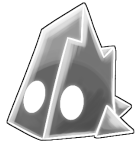
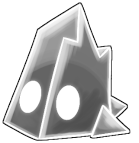
Halo update

Changed region(s): [[0.0, 0.0, 0.9784, 1.0], [0.3453, 0.2238, 0.4029, 0.2517]]

diff --git a/EnchantedMask/Helpers/UI/InventoryPage/GlyphsPage.cs b/EnchantedMask/Helpers/UI/InventoryPage/GlyphsPage.cs
@@ -1,16 +1,18 @@
-using HutongGames.PlayMaker;
+using EnchantedMask.Glyphs;
+using EnchantedMask.Settings;
+using HutongGames.PlayMaker;
+using HutongGames.PlayMaker.Actions;
 using ItemChanger.Extensions;
 using ItemChanger.FsmStateActions;
-using EnchantedMask.Settings;
 using System;
 using System.Collections.Generic;
+using System.Drawing;
+using System.EnterpriseServices.CompensatingResourceManager;
 using System.Linq;
 using System.Text;
 using TMPro;
 using UnityEngine;
 using UnityEngine.UI;
-using HutongGames.PlayMaker.Actions;
-using EnchantedMask.Glyphs;
 
 namespace EnchantedMask.Helpers.UI.InventoryPage
 {
@@ -232,13 +234,46 @@ namespace EnchantedMask.Helpers.UI.InventoryPage
                 icon.layer = glyphsPage.layer;
 
                 // Decides what the icon looks like
-                SpriteRenderer sr = icon.AddComponent<SpriteRenderer>();
-                sr.sprite = SharedData.glyphs[i].GetIcon();
-                sr.sortingLayerID = 629535577;
-                sr.sortingLayerName = "HUD";
+                SpriteRenderer spriteRenderer = icon.AddComponent<SpriteRenderer>();
+                spriteRenderer.sprite = SharedData.glyphs[i].GetIcon();
+                spriteRenderer.sortingLayerID = 629535577;
+                spriteRenderer.sortingLayerName = "HUD";
 
-                slots[rowIndex].Add(new GlyphSlot(slotObject, icon, sr));
+                // Add the background halo to show if a slot is equipped
+                GameObject equippedHalo = new GameObject($"Glyph Slot {i} - Halo");
+                equippedHalo.transform.SetParent(icon.transform);
+                equippedHalo.layer = icon.layer;
+                equippedHalo.transform.localPosition = new Vector3(0, 0, 5);
+                equippedHalo.transform.localScale = 1.5f * spacing.Scale();
+
+                // Define the halo's appearance
+                SpriteRenderer spriteRenderer2 = equippedHalo.AddComponent<SpriteRenderer>();
+                spriteRenderer2.sprite = GetHaloSprite(SharedData.glyphs[i].Tier);
+                spriteRenderer2.sortingLayerID = 629535577;
+                spriteRenderer2.sortingLayerName = "HUD";
+                equippedHalo.SetActive(false);
+
+                slots[rowIndex].Add(new GlyphSlot(slotObject, icon, spriteRenderer, equippedHalo));
                 columnIndex++;
+            }
+        }
+
+        private Sprite GetHaloSprite(Glyph.Tiers tier)
+        {
+            switch (tier)
+            {
+                case Glyph.Tiers.Common:
+                    return SpriteHelper.GetSprite("WhiteHalo");
+                case Glyph.Tiers.Uncommon:
+                    return SpriteHelper.GetSprite("GreenHalo");
+                    case Glyph.Tiers.Rare:
+                    return SpriteHelper.GetSprite("BlueHalo");
+                case Glyph.Tiers.Epic:
+                    return SpriteHelper.GetSprite("PurpleHalo");
+                case Glyph.Tiers.Legendary:
+                    return SpriteHelper.GetSprite("YellowHalo");
+                default:
+                    return SpriteHelper.GetSprite("WhiteHalo");
             }
         }
 
@@ -275,6 +310,7 @@ namespace EnchantedMask.Helpers.UI.InventoryPage
                     Glyphs.Glyph glyph = SharedData.glyphs[GetGlyphIndex(rowIndex, columnIndex)];
 
                     slot.spriteRenderer.sprite = glyph.Bought() ? glyph.GetIcon() : hiddenSprite;
+                    slot.halo.SetActive(glyph.IsEquipped());
                 }
             }
         }
@@ -653,7 +689,7 @@ namespace EnchantedMask.Helpers.UI.InventoryPage
             selectedColumn = int.Parse(stateParts[2]);
 
             PlayMakerFSM updateCursor = pageFsm.gameObject.LocateMyFSM("Update Cursor");
-            updateCursor.FsmVariables.FindFsmGameObject("Item").Value = slots[selectedRow][selectedColumn].slotOjbect;
+            updateCursor.FsmVariables.FindFsmGameObject("Item").Value = slots[selectedRow][selectedColumn].slotObject;
             updateCursor.SendEvent("UPDATE CURSOR");
 
             SetSelectedGlyph(stateName);
@@ -728,22 +764,22 @@ namespace EnchantedMask.Helpers.UI.InventoryPage
         /// </summary>
         /// <param name="tier"></param>
         /// <returns></returns>
-        private Color GetColor(Glyphs.Glyph.Tiers tier)
+        private UnityEngine.Color GetColor(Glyphs.Glyph.Tiers tier)
         {
             switch (tier)
             {
                 case Glyphs.Glyph.Tiers.Common:
-                    return new Color(255, 255, 255); // White
+                    return new UnityEngine.Color(255, 255, 255); // White
                 case Glyphs.Glyph.Tiers.Uncommon:
-                    return new Color(0, 255, 0); // Green
+                    return new UnityEngine.Color(0, 255, 0); // Green
                 case Glyphs.Glyph.Tiers.Rare:
-                    return new Color(0, 50, 255); // Blue
+                    return new UnityEngine.Color(0, 50, 255); // Blue
                 case Glyphs.Glyph.Tiers.Epic:
-                    return new Color(255, 0, 255); // Purple
+                    return new UnityEngine.Color(255, 0, 255); // Purple
                 case Glyphs.Glyph.Tiers.Legendary:
-                    return new Color(255, 255, 0); // Yellow
+                    return new UnityEngine.Color(255, 255, 0); // Yellow
                 default:
-                    return new Color(255, 255, 255); // White
+                    return new UnityEngine.Color(255, 255, 255); // White
             }
         }
         #endregion

diff --git a/EnchantedMask/Helpers/UI/InventoryPage/GlyphSlot.cs b/EnchantedMask/Helpers/UI/InventoryPage/GlyphSlot.cs
@@ -7,15 +7,17 @@ namespace EnchantedMask.Helpers.UI.InventoryPage
     /// </summary>
     public class GlyphSlot
     {
-        public readonly GameObject slotOjbect;
+        public readonly GameObject slotObject;
         public readonly GameObject icon;
         public readonly SpriteRenderer spriteRenderer;
+        public readonly GameObject halo;
 
-        public GlyphSlot(GameObject slotOjbect, GameObject icon, SpriteRenderer spriteRenderer)
+        public GlyphSlot(GameObject slotObject, GameObject icon, SpriteRenderer spriteRenderer, GameObject halo)
         {
-            this.slotOjbect = slotOjbect;
+            this.slotObject = slotObject;
             this.icon = icon;
             this.spriteRenderer = spriteRenderer;
+            this.halo = halo;
         }
     }
 }

diff --git a/ReadMe.md b/ReadMe.md
@@ -27,6 +27,7 @@ Thank you Hadanelith, BenjaLP211 and Dwarfwoot for testing and feedback.
 ## Patch Notes
 1.4.0.0
 - Icons improved by MsGreen419
+- Added new color-coded haloes that show which glyph is currently equipped
 
 1.3.0.0
 - Added new glyphs for Godhome
